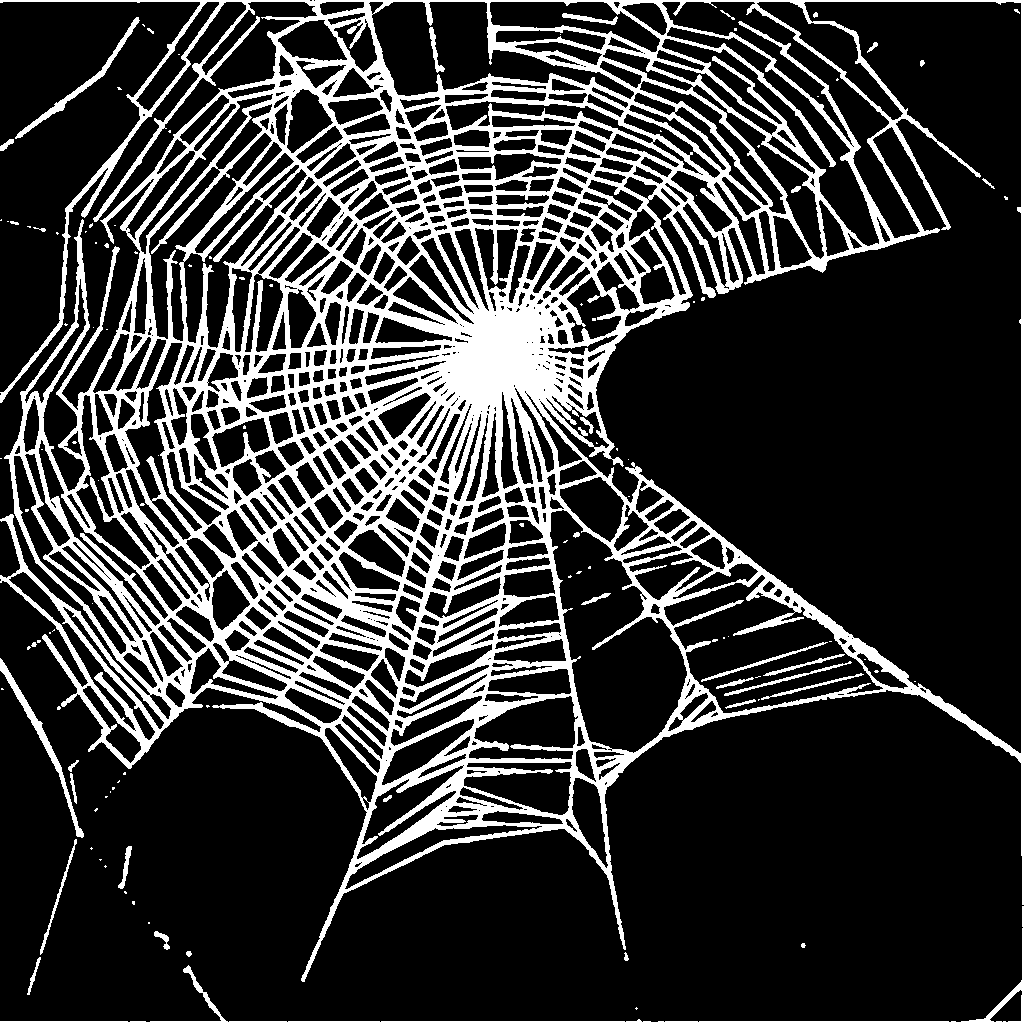
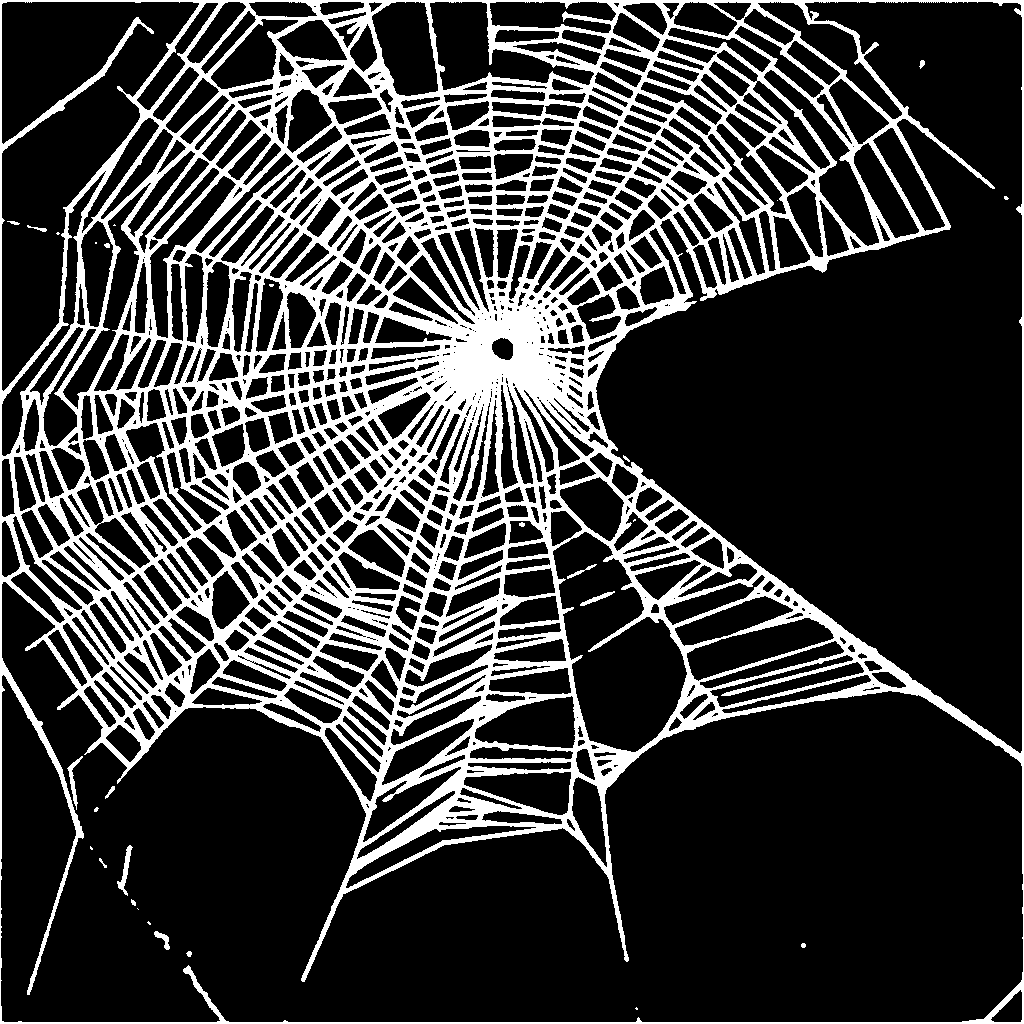
cpuv6 very good params

diff --git a/unet-sperm.py b/unet-sperm.py
@@ -39,7 +39,7 @@ epochs = 200
 batch_size = 3
 val_samples = 25
 epoch_patience = 25
-model_learning_rate = 0.004
+model_learning_rate = 0.00135
 validation_split = 0.3
 
 input_ext = ".jpg"
@@ -308,7 +308,7 @@ val_preds = model.predict(X_test)
 # Display mask predicted by our model
 display_mask(i)  # Note that the model only sees inputs at 150x150.
 
-model.save('./spiders_cpu5.keras')  # The file needs to end with the .keras extension
+model.save('./spiders_cpu6.keras')  # The file needs to end with the .keras extension
 
 fig.add_subplot(rows, columns, 4) 
 plt.plot(history.history['accuracy'], label='train') 

diff --git a/load-model.py b/load-model.py
@@ -12,7 +12,7 @@ input_dir = "spider_new"
 img_size = (1024, 1024)
 
 # trained_model = keras.saving.load_model("./betamodel_v4.keras", custom_objects=None, compile=True, safe_mode=False)
-trained_model = load_model("./spiders_cpu5.keras", custom_objects=None, compile=True,safe_mode=False)
+trained_model = load_model("./spiders_cpu6.keras", custom_objects=None, compile=True,safe_mode=False)
 
 input_img_paths = sorted(
     [
